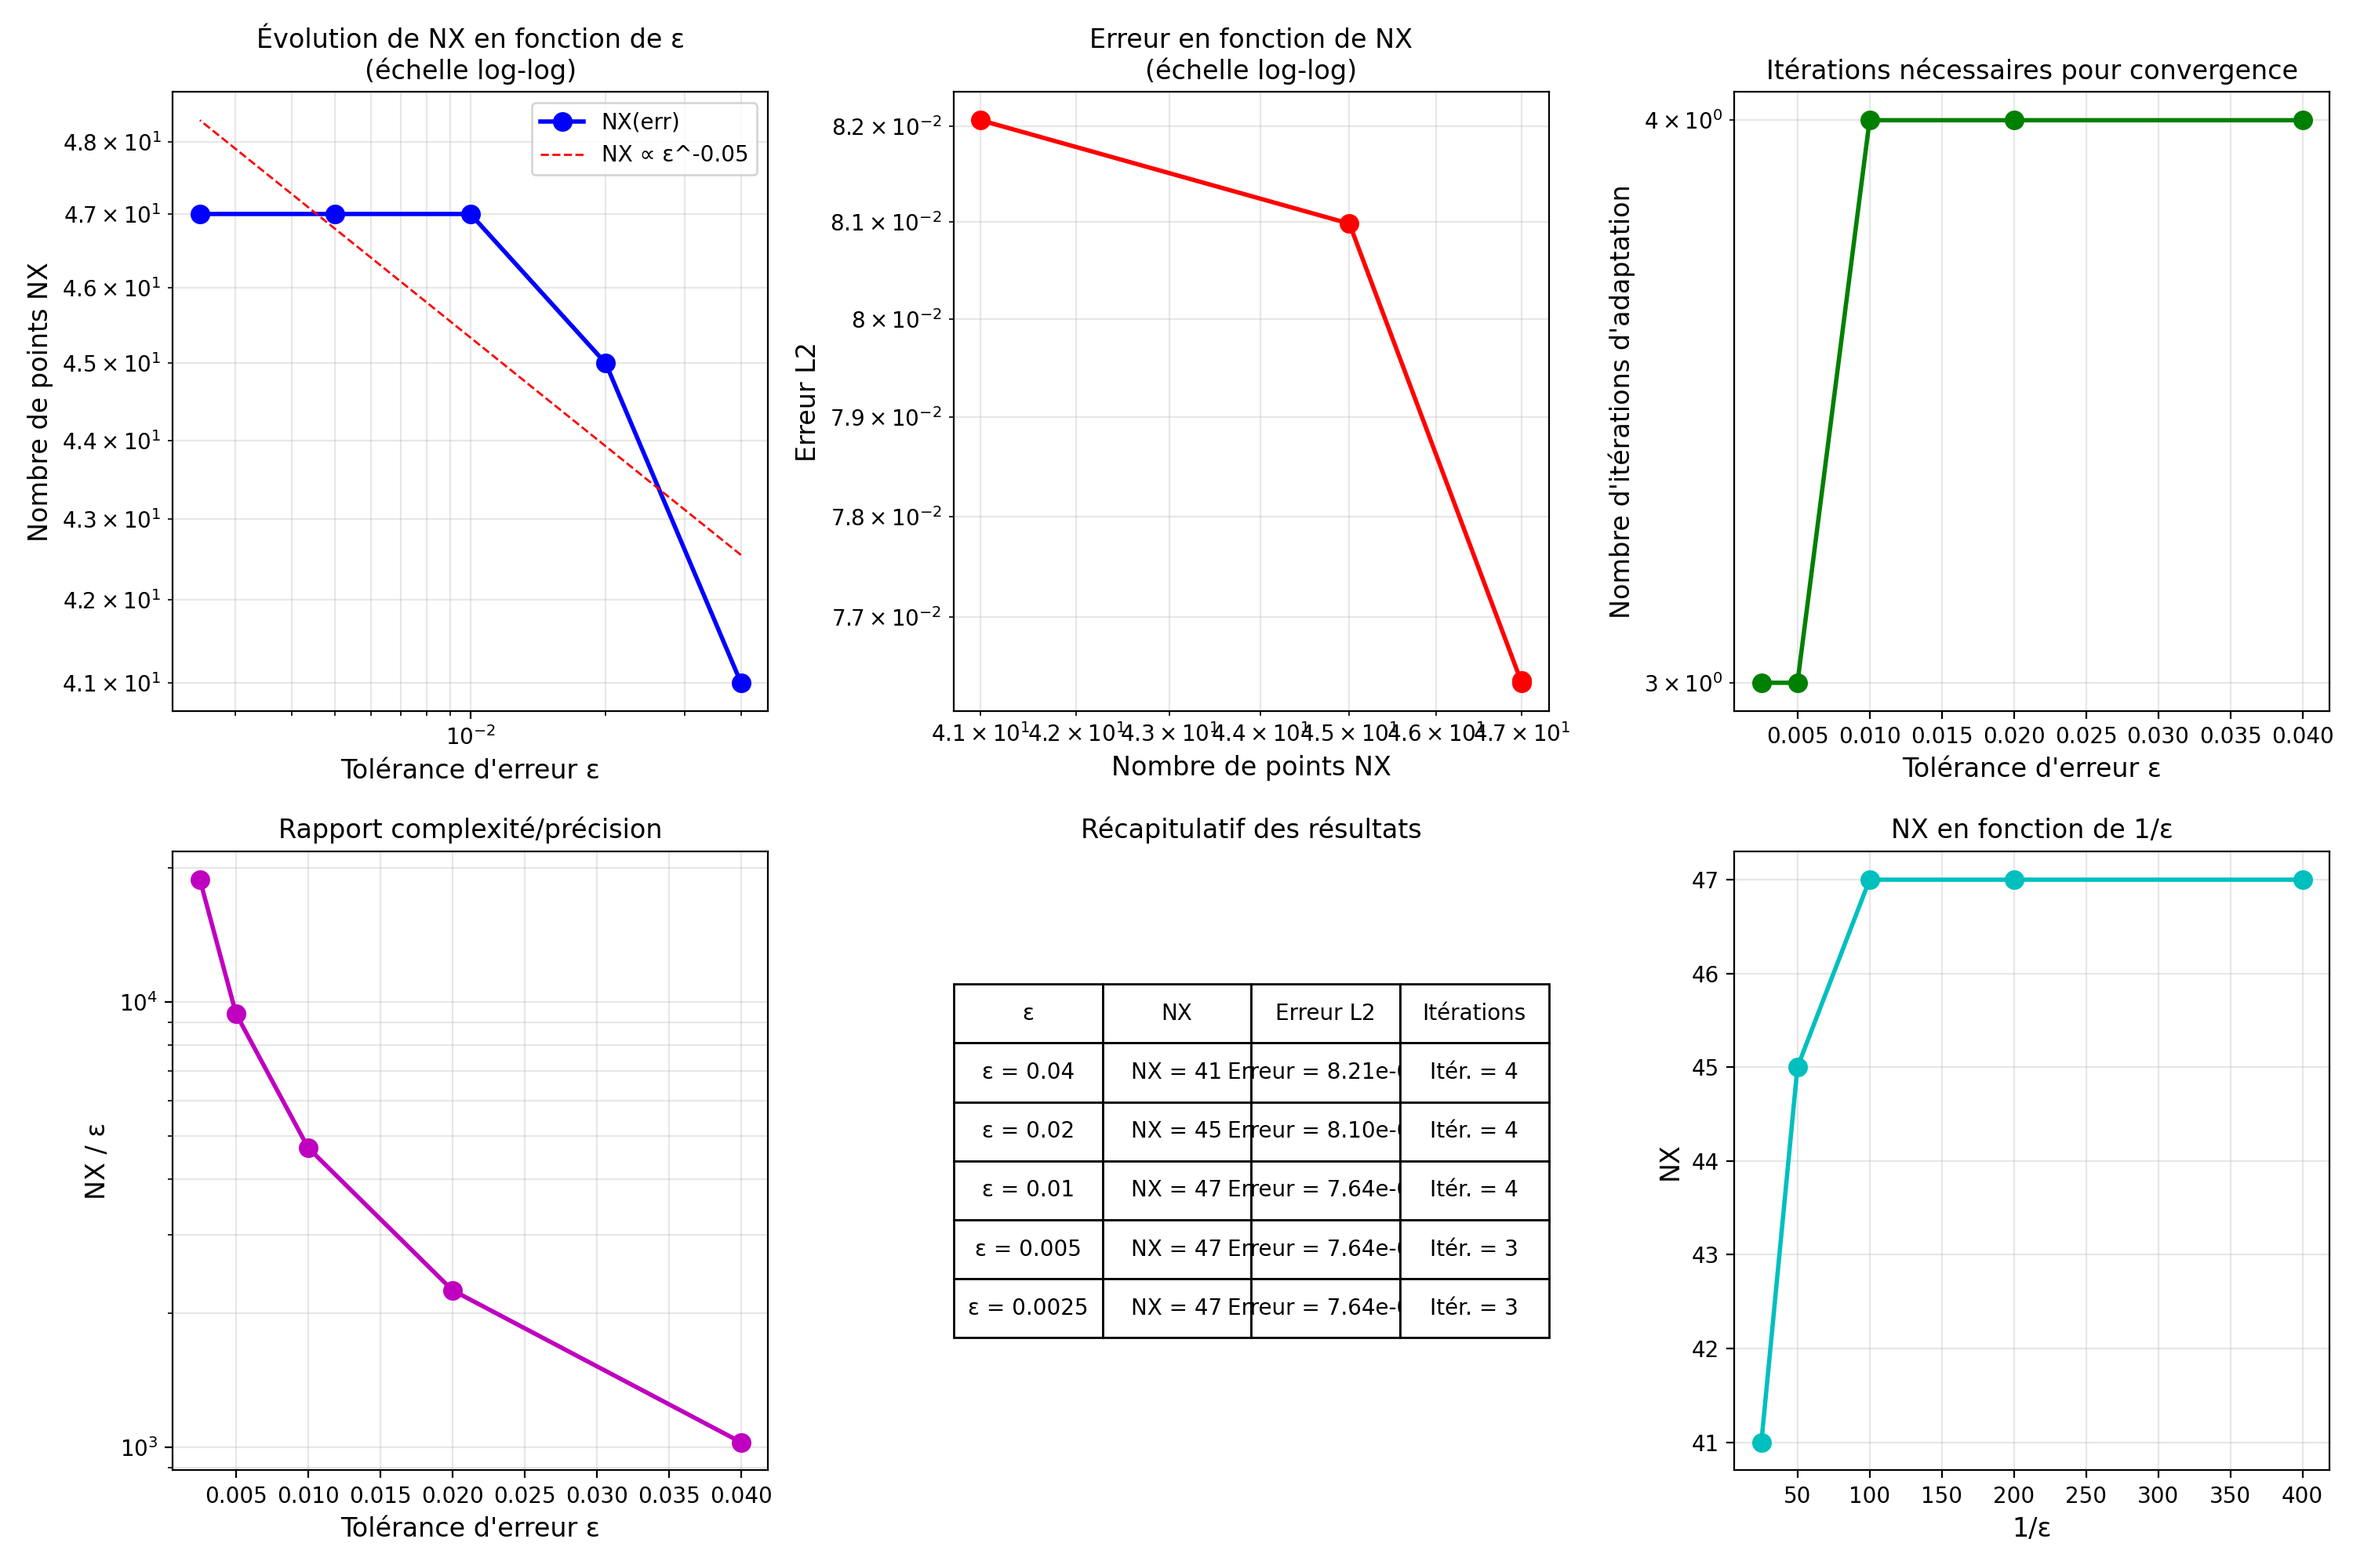
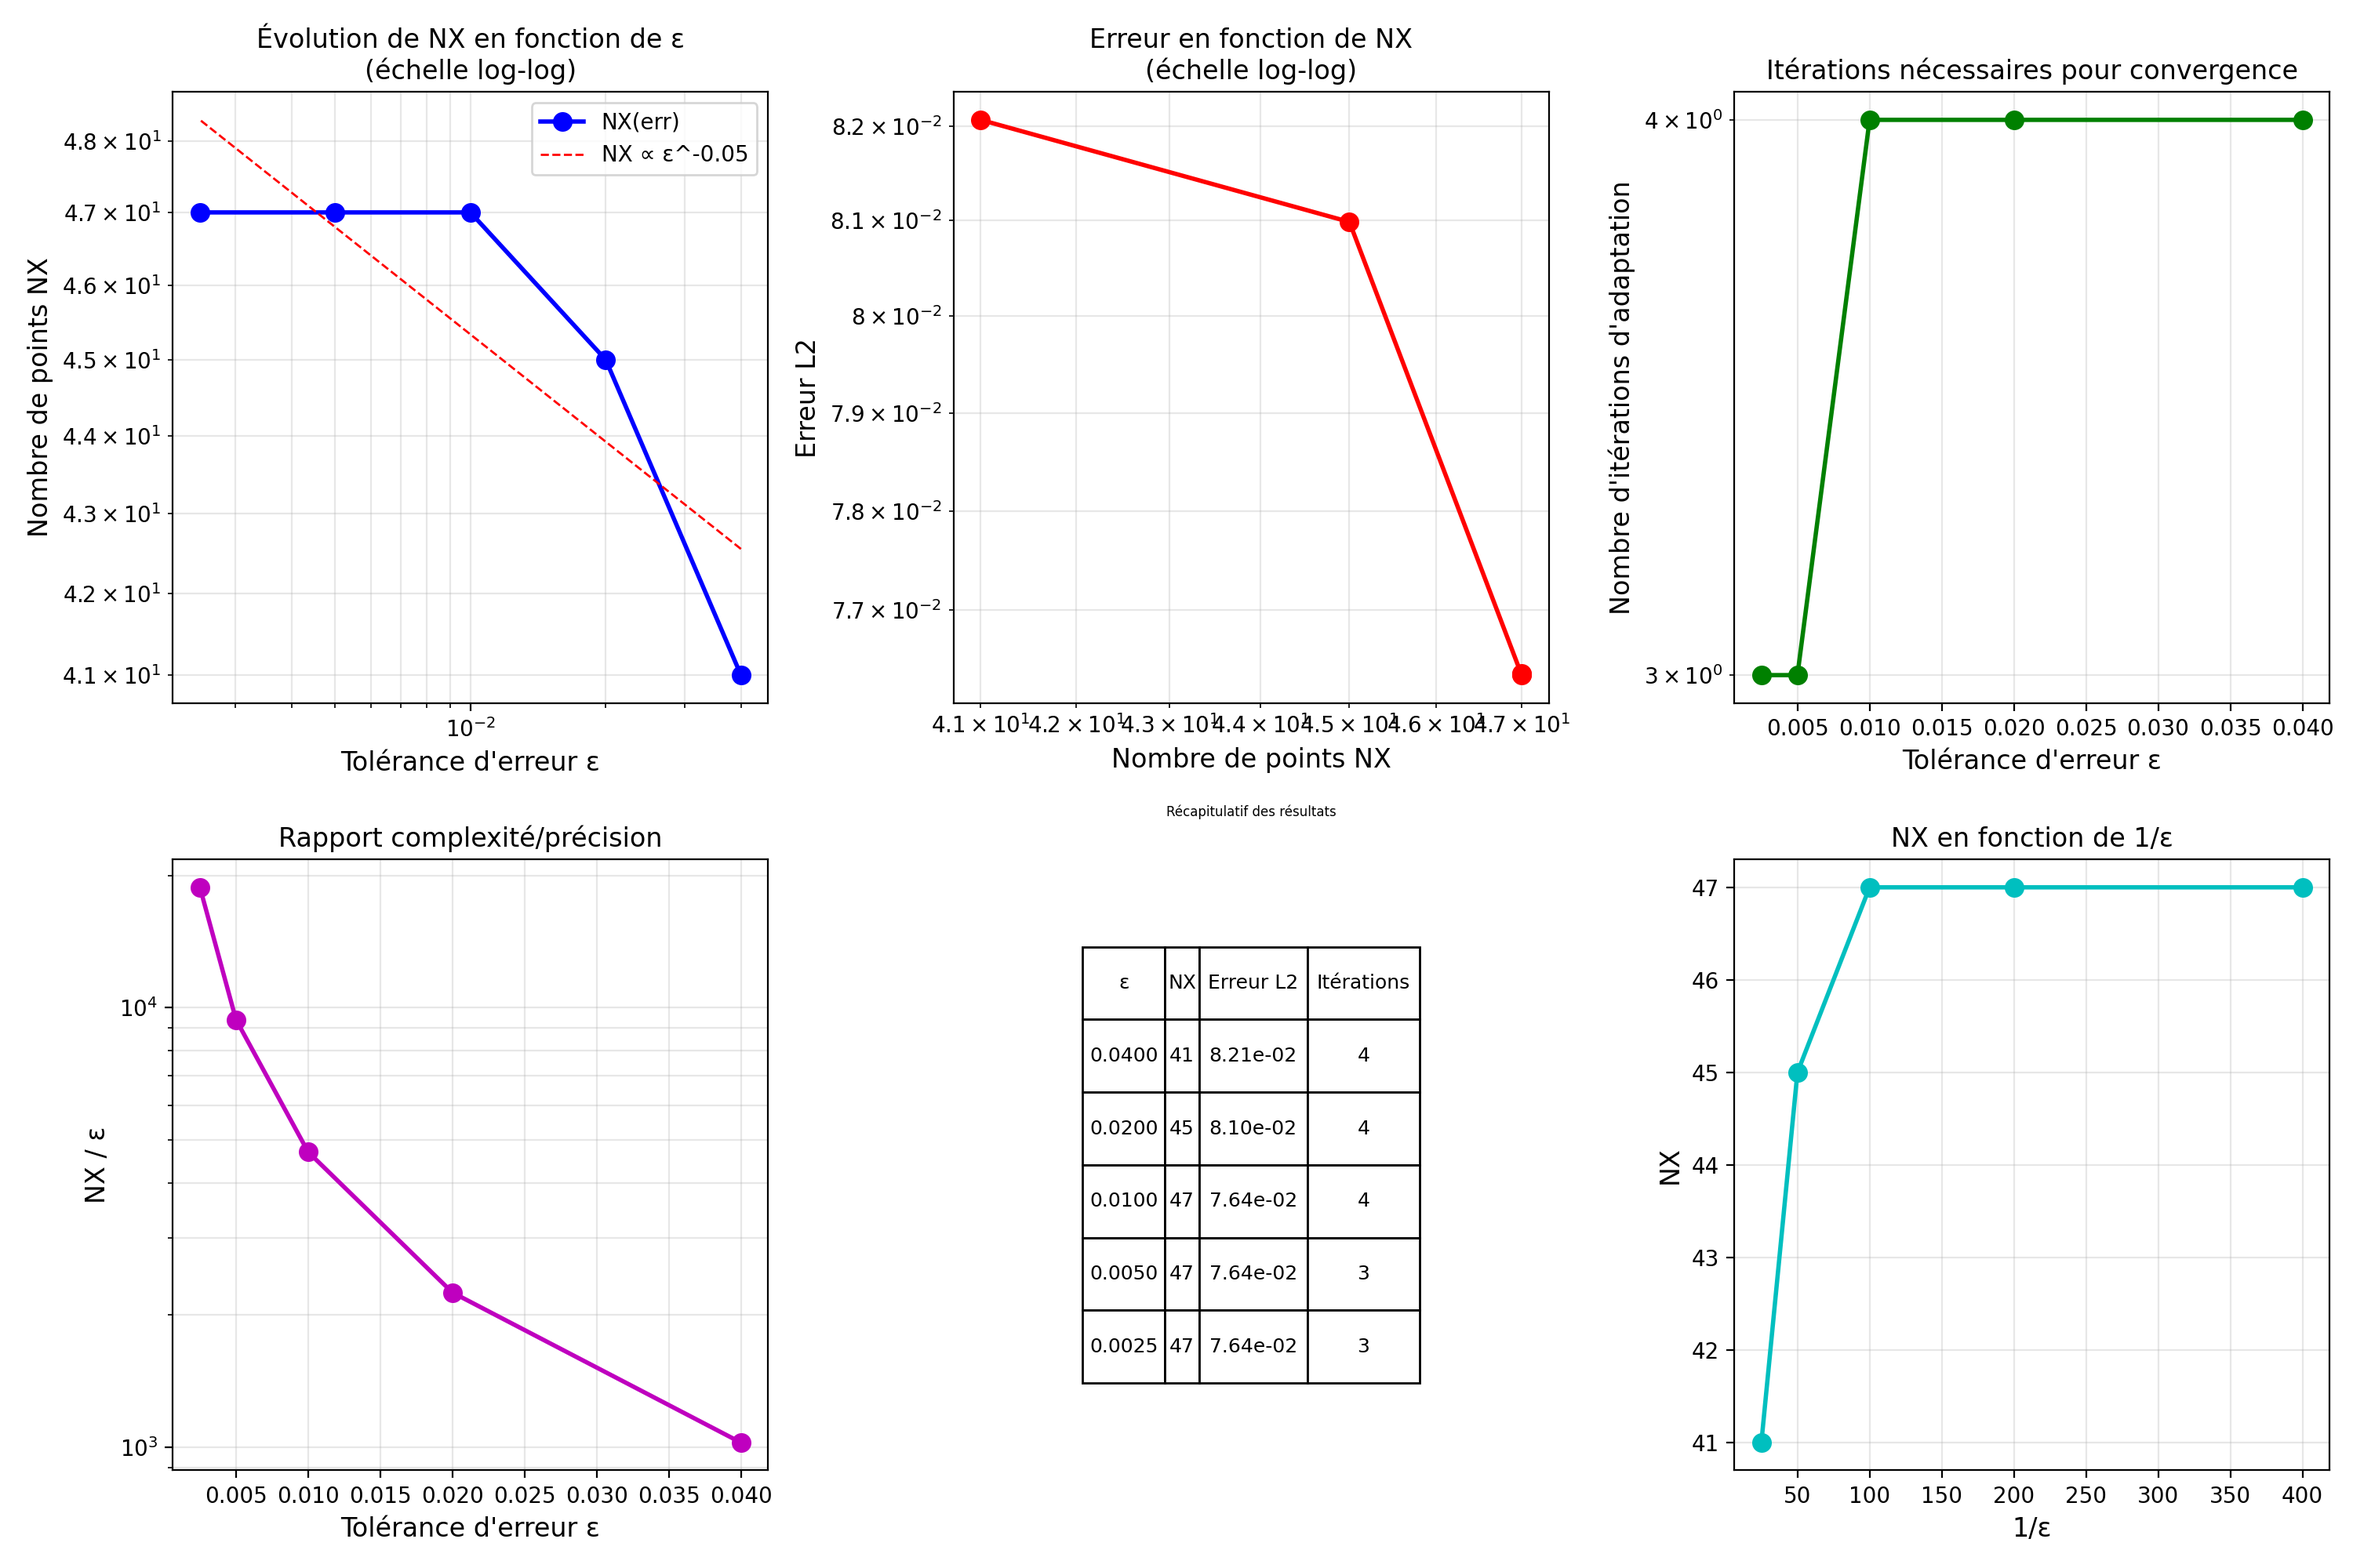
ajout images cmpte rendu

diff --git a/estimation_posteriori/adrs_multiple_mesh_adap.py b/estimation_posteriori/adrs_multiple_mesh_adap.py
@@ -180,116 +180,82 @@ for err in err_values:
     errorL2_results.append(errL2_final)
     iterations_results.append(n_iter)
 
-# Tracé des résultats
-plt.figure(figsize=(15, 10))
+# =======================
+#   TRACÉ DES RÉSULTATS
+# =======================
 
-# Graphique 1: NX en fonction de err
-plt.subplot(2, 3, 1)
-plt.loglog(err_values, NX_results, 'bo-', linewidth=2, markersize=8, label='NX(err)')
-plt.xlabel('Tolérance d\'erreur ε', fontsize=12)
-plt.ylabel('Nombre de points NX', fontsize=12)
-plt.title('Évolution de NX en fonction de ε\n(échelle log-log)', fontsize=12)
-plt.grid(True, alpha=0.3, which='both')
+# ---------- FIGURE 1 : ANALYSE DES COURBES ----------
+fig1 = plt.figure(figsize=(10, 6))
 
-# Ajout de la loi de puissance
+# Graphique 1 : NX en fonction de err
+ax1 = fig1.add_subplot(2, 2, 1)
+ax1.loglog(err_values, NX_results, 'bo-', linewidth=2, markersize=8, label='NX(err)')
+ax1.set_xlabel("Tolérance d'erreur ε", fontsize=12)
+ax1.set_ylabel("Nombre de points NX", fontsize=12)
+ax1.set_title("Évolution de NX en fonction de ε (log-log)", fontsize=12)
+ax1.grid(True, which='both', alpha=0.3)
 if len(err_values) > 1:
     coeffs = np.polyfit(np.log(err_values), np.log(NX_results), 1)
     power_law = np.exp(coeffs[1]) * np.array(err_values)**coeffs[0]
-    plt.loglog(err_values, power_law, 'r--', linewidth=1, 
-              label=f'NX ∝ ε^{coeffs[0]:.2f}')
-plt.legend()
+    ax1.loglog(err_values, power_law, 'r--',
+               label=f'NX ∝ ε^{coeffs[0]:.2f}')
+ax1.legend()
 
-# Graphique 2: Erreur en fonction de NX
-plt.subplot(2, 3, 2)
-plt.loglog(NX_results, errorL2_results, 'ro-', linewidth=2, markersize=8)
-plt.xlabel('Nombre de points NX', fontsize=12)
-plt.ylabel('Erreur L2', fontsize=12)
-plt.title('Erreur en fonction de NX\n(échelle log-log)', fontsize=12)
-plt.grid(True, alpha=0.3, which='both')
+# Graphique 2 : Erreur en fonction de NX
+ax2 = fig1.add_subplot(2, 2, 2)
+ax2.loglog(NX_results, errorL2_results, 'ro-', linewidth=2, markersize=8)
+ax2.set_xlabel('Nombre de points NX', fontsize=12)
+ax2.set_ylabel('Erreur L2', fontsize=12)
+ax2.set_title('Erreur en fonction de NX (log-log)', fontsize=12)
+ax2.grid(True, which='both', alpha=0.3)
 
-# Graphique 3: Évolution des itérations
-plt.subplot(2, 3, 3)
-plt.semilogy(err_values, iterations_results, 'go-', linewidth=2, markersize=8)
-plt.xlabel('Tolérance d\'erreur ε', fontsize=12)
-plt.ylabel('Nombre d\'itérations d\'adaptation', fontsize=12)
-plt.title('Itérations nécessaires pour convergence', fontsize=12)
-plt.grid(True, alpha=0.3, which='both')
+# Graphique 3 : Itérations nécessaires
+ax3 = fig1.add_subplot(2, 2, 3)
+ax3.semilogy(err_values, iterations_results, 'go-', linewidth=2, markersize=8)
+ax3.set_xlabel('Tolérance d\'erreur ε', fontsize=12)
+ax3.set_ylabel('Itérations d\'adaptation', fontsize=12)
+ax3.set_title('Nombre d\'itérations', fontsize=12)
+ax3.grid(True, which='both', alpha=0.3)
 
-# Graphique 4: Rapport NX/err
-plt.subplot(2, 3, 4)
+# Graphique 4 : Rapport NX/ε
+ax4 = fig1.add_subplot(2, 2, 4)
 ratio = np.array(NX_results) / np.array(err_values)
-plt.semilogy(err_values, ratio, 'mo-', linewidth=2, markersize=8)
-plt.xlabel('Tolérance d\'erreur ε', fontsize=12)
-plt.ylabel('NX / ε', fontsize=12)
-plt.title('Rapport complexité/précision', fontsize=12)
-plt.grid(True, alpha=0.3, which='both')
+ax4.semilogy(err_values, ratio, 'mo-', linewidth=2, markersize=8)
+ax4.set_xlabel('Tolérance d\'erreur ε', fontsize=12)
+ax4.set_ylabel('NX / ε', fontsize=12)
+ax4.set_title('Rapport NX/ε', fontsize=12)
+ax4.grid(True, which='both', alpha=0.3)
 
-# Graphique 5: Tableau récapitulatif
-plt.subplot(2, 3, 5)
-plt.axis('off')
-table_data = []
-for i, err in enumerate(err_values):
-    table_data.append([f'ε = {err}', f'NX = {NX_results[i]}', 
-                      f'Erreur = {errorL2_results[i]:.2e}', 
-                      f'Itér. = {iterations_results[i]}'])
+fig1.tight_layout()
+fig1.savefig("NX_err_analysis_part1.png", dpi=200)
 
-table = plt.table(cellText=table_data,
-                 colLabels=['ε', 'NX', 'Erreur L2', 'Itérations'],
-                 loc='center',
-                 cellLoc='center')
+# ---------- FIGURE 2 : TABLEAU + LOI D'ÉCHELLE ----------
+fig2 = plt.figure(figsize=(10, 6))
+
+# Sous-plot 1 : tableau récapitulatif
+ax5 = fig2.add_subplot(1, 2, 1)
+ax5.axis('off')
+table_data = [[f'{err_values[i]:.4f}',
+               f'{NX_results[i]}',
+               f'{errorL2_results[i]:.2e}',
+               f'{iterations_results[i]}']
+              for i in range(len(err_values))]
+table = ax5.table(cellText=table_data,
+                  colLabels=['ε', 'NX', 'Erreur L2', 'Itérations'],
+                  loc='center', cellLoc='center')
 table.auto_set_font_size(False)
-table.set_fontsize(10)
-table.scale(1, 2)
-plt.title('Récapitulatif des résultats', fontsize=12)
+table.set_fontsize(9)
+table.scale(1.2, 2.0)
+ax5.set_title('Récapitulatif des résultats', fontsize=12, pad=20)
 
-# Graphique 6: Loi d'échelle
-plt.subplot(2, 3, 6)
-if len(err_values) > 1:
-    plt.plot(1/np.array(err_values), NX_results, 'co-', linewidth=2, markersize=8)
-    plt.xlabel('1/ε', fontsize=12)
-    plt.ylabel('NX', fontsize=12)
-    plt.title('NX en fonction de 1/ε', fontsize=12)
-    plt.grid(True, alpha=0.3)
+# Sous-plot 2 : loi d’échelle NX vs 1/ε
+ax6 = fig2.add_subplot(1, 2, 2)
+ax6.plot(1/np.array(err_values), NX_results, 'co-', linewidth=2, markersize=8)
+ax6.set_xlabel('1/ε', fontsize=12)
+ax6.set_ylabel('NX', fontsize=12)
+ax6.set_title('NX en fonction de 1/ε', fontsize=12)
+ax6.grid(True, which='both', alpha=0.3)
 
-plt.tight_layout()
-plt.savefig('NX(err).png', dpi=200)
+fig2.tight_layout()
+fig2.savefig("NX_err_analysis_part2.png", dpi=200)
 plt.show()
-
-# Analyse des résultats
-print("\n" + "="*60)
-print("ANALYSE DES RÉSULTATS")
-print("="*60)
-
-print("\n1. ÉVOLUTION DE NX EN FONCTION DE err:")
-print("   ε      |    NX    |   NX/ε   |  Rapport")
-print("-"*40)
-for i in range(len(err_values)):
-    if i > 0:
-        ratio_nx = NX_results[i] / NX_results[i-1]
-        ratio_err = err_values[i-1] / err_values[i]  # err diminue
-        print(f"  {err_values[i]:.4f}  |   {NX_results[i]:4d}    |  {NX_results[i]/err_values[i]:7.1f}  |  x{ratio_nx:.2f} pour err/{ratio_err:.1f}")
-    else:
-        print(f"  {err_values[i]:.4f}  |   {NX_results[i]:4d}    |  {NX_results[i]/err_values[i]:7.1f}  |  -")
-
-print("\n2. CRITÈRES D'ARRÊT POUR L'ITÉRATION D'ADAPTATION:")
-print("   a) |NXₙ - NXₙ₋₁| ≤ 2 : Maillage stabilisé")
-print("   b) Nombre max d'itérations atteint")
-print("   c) Changement d'erreur < 1% entre itérations")
-print("   d) Résidu relatif < ε (convergence temporelle)")
-print("   e) Temps d'intégration maximum atteint")
-
-print("\n3. LOI D'ÉCHELLE OBSERVÉE:")
-if len(err_values) > 1:
-    # Calcul de l'exposant
-    log_err = np.log(np.array(err_values))
-    log_nx = np.log(np.array(NX_results))
-    slope, intercept = np.polyfit(log_err, log_nx, 1)
-    print(f"   NX ∝ ε^{slope:.3f}")
-    print(f"   Soit NX ∝ 1/ε^{abs(slope):.3f}")
-    
-    if abs(slope + 0.5) < 0.1:
-        print("   → Comportement typique d'adaptation de maillage (pente ≈ -0.5)")
-    elif abs(slope + 1.0) < 0.1:
-        print("   → Comportement linéaire (pente ≈ -1.0)")
-    else:
-        print(f"   → Comportement spécifique au problème")
